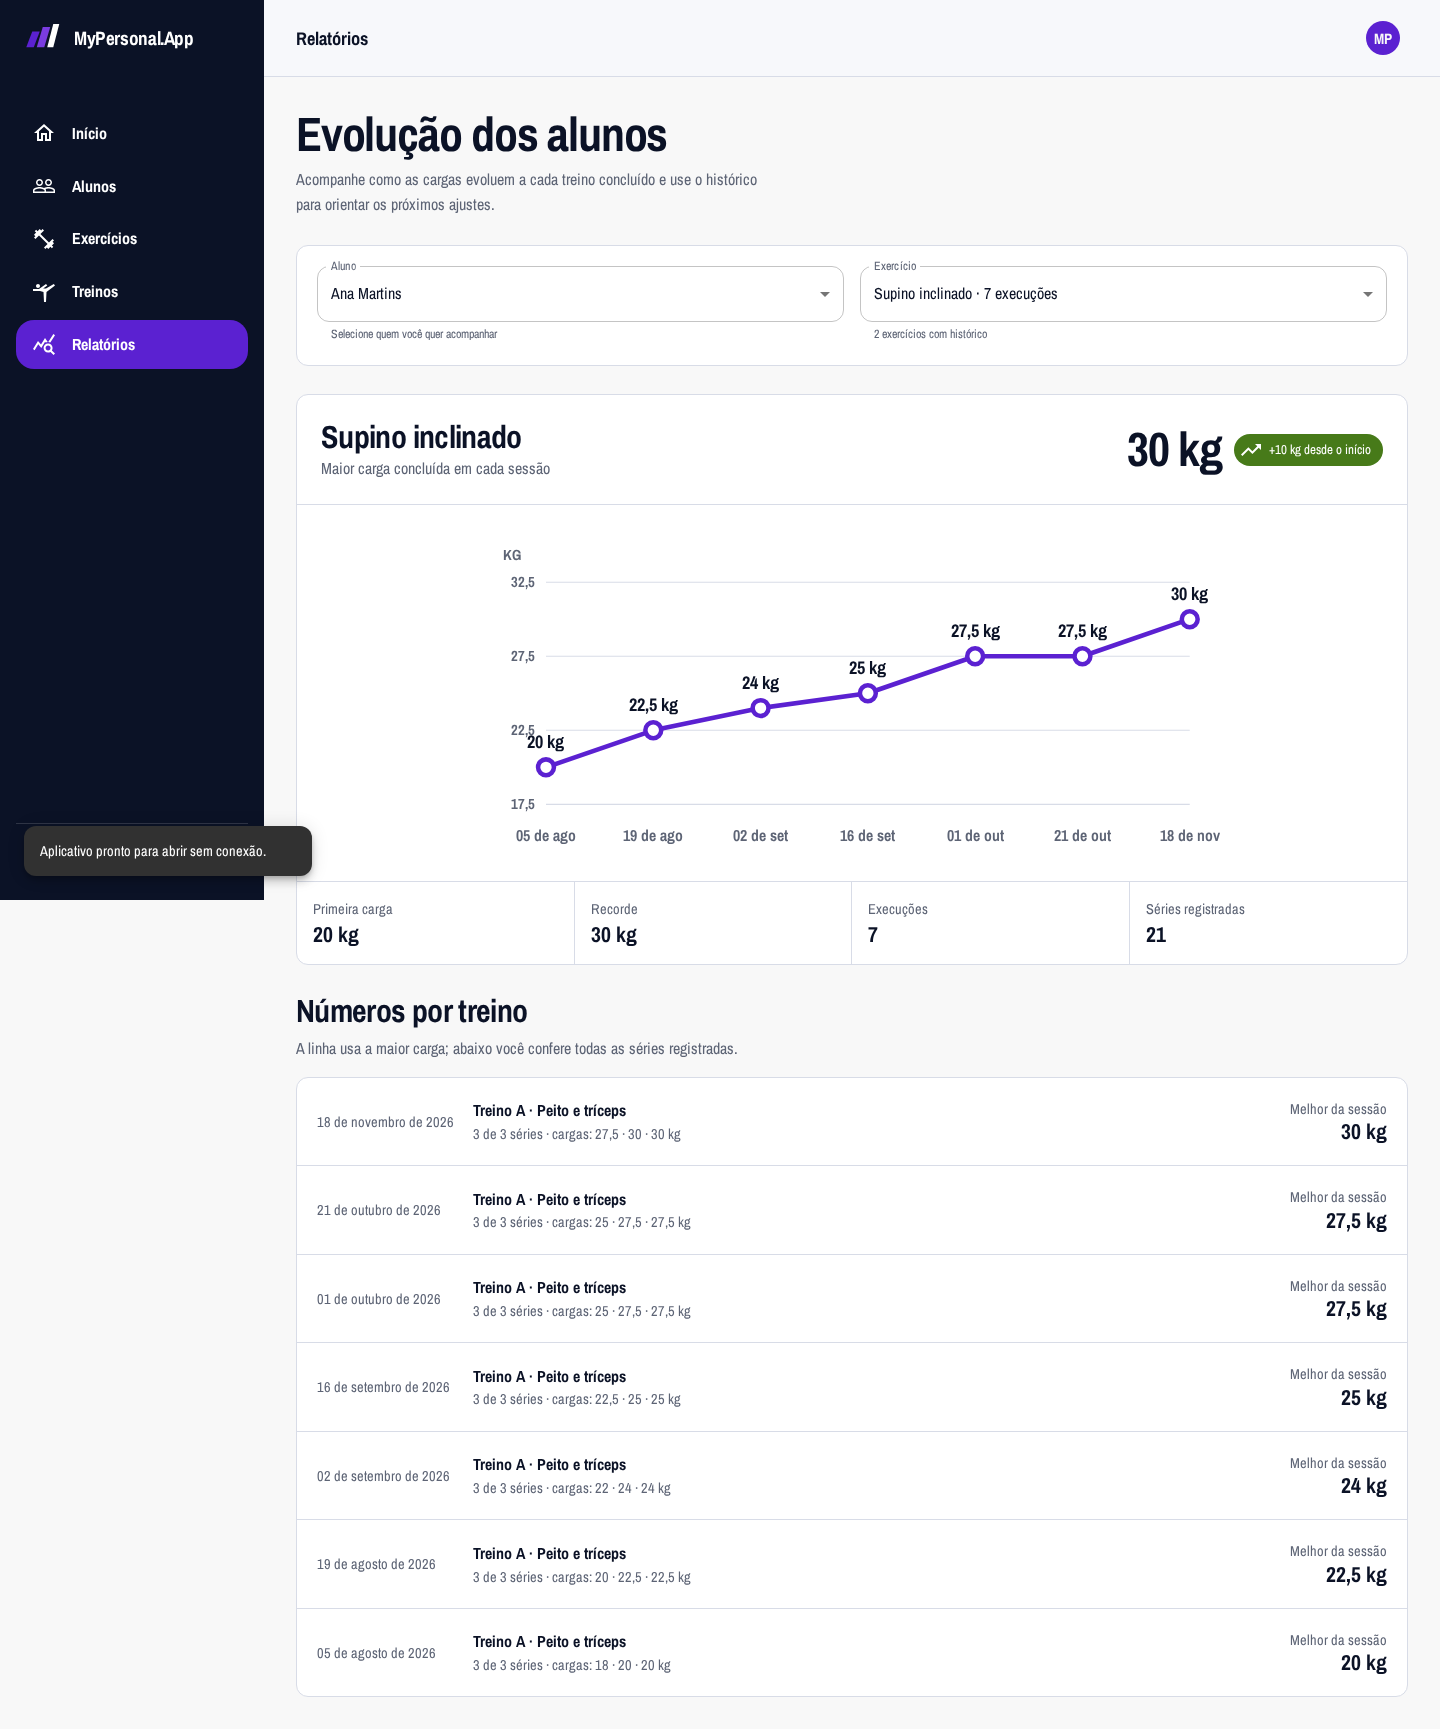
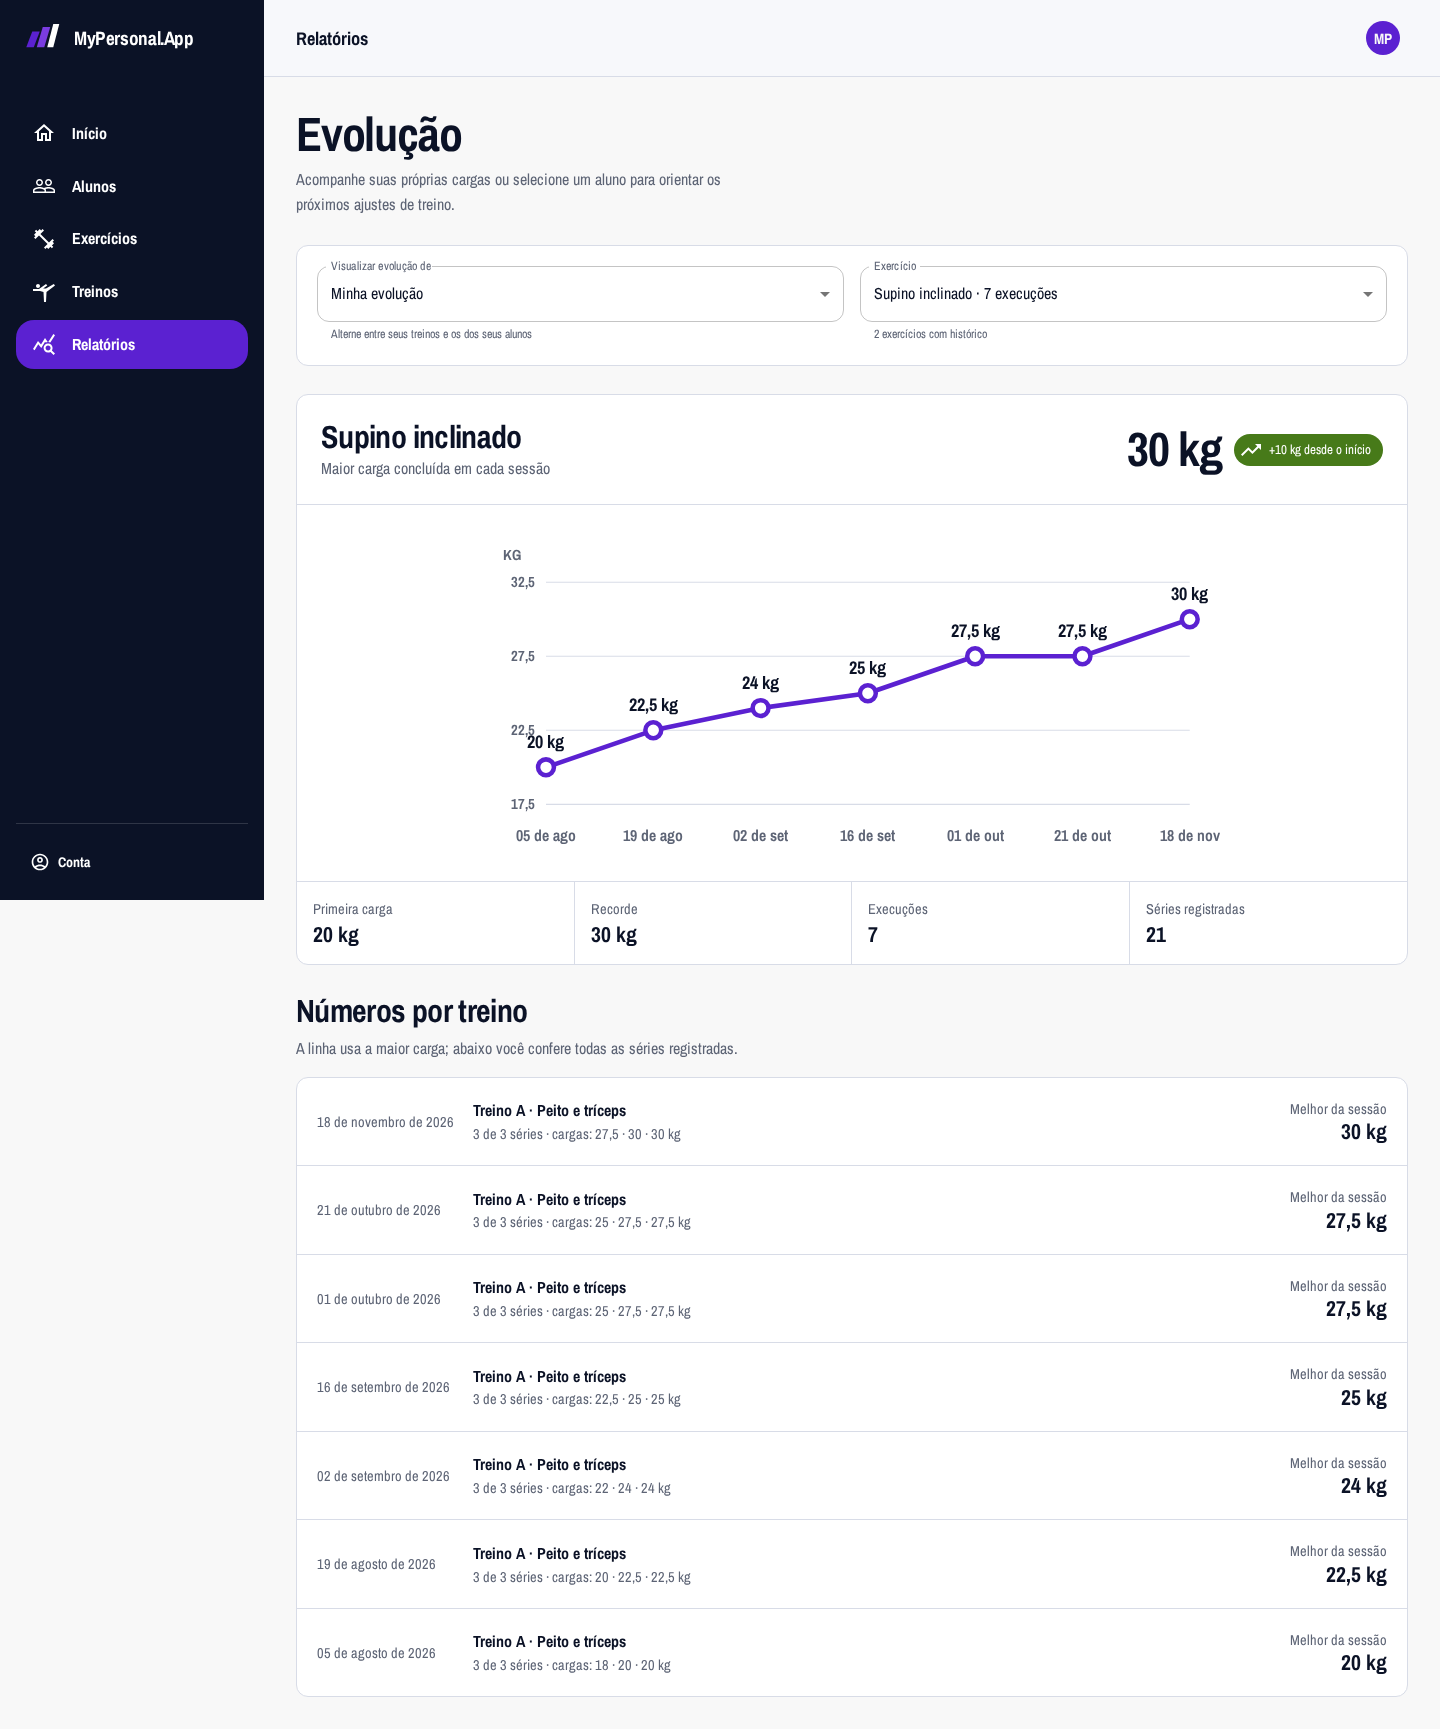
feat: refactor evolution report structure to use 'subject' instead of 'student' and enhance related components

diff --git a/src/pages/Reports/EvolutionReport.tsx b/src/pages/Reports/EvolutionReport.tsx
@@ -1,5 +1,5 @@
-import { useCallback, useEffect, useMemo, useState } from 'react';
-import { QueryStatsOutlined, Replay, SwipeOutlined, TrendingDown, TrendingFlat, TrendingUp } from '@mui/icons-material';
+import { useCallback, useEffect, useMemo, useRef, useState } from 'react';
+import { Replay, SwipeOutlined, TrendingDown, TrendingFlat, TrendingUp } from '@mui/icons-material';
 import { Alert, Box, Button, Chip, Divider, Paper, Skeleton, Stack, TextField, Typography } from '@mui/material';
 import Template from '../../components/Template';
 import { EvolutionReport as EvolutionReportData, User, UserRole } from '../../domain/types';
@@ -13,6 +13,7 @@ interface EvolutionReportProps {
 
 const loadNumber = new Intl.NumberFormat('pt-BR', { minimumFractionDigits: 0, maximumFractionDigits: 1 });
 const fullDate = new Intl.DateTimeFormat('pt-BR', { day: '2-digit', month: 'long', year: 'numeric' });
+const SELF_SUBJECT = 'self';
 
 function formatLoad(value: number | null) {
   return value === null ? '—' : `${loadNumber.format(value)} kg`;
@@ -21,30 +22,40 @@ function formatLoad(value: number | null) {
 export default function EvolutionReport({ mode = 'STUDENT' }: EvolutionReportProps) {
   const personal = mode === 'PERSONAL';
   const [students, setStudents] = useState<User[]>([]);
-  const [studentId, setStudentId] = useState('');
+  const [subjectId, setSubjectId] = useState(personal ? SELF_SUBJECT : '');
   const [report, setReport] = useState<EvolutionReportData | null>(null);
   const [loadingStudents, setLoadingStudents] = useState(personal);
-  const [loadingReport, setLoadingReport] = useState(!personal);
+  const [loadingReport, setLoadingReport] = useState(true);
   const [error, setError] = useState('');
+  const reportRequest = useRef<AbortController | null>(null);
 
   const loadReport = useCallback(async (selectedStudentId?: string, exerciseId?: string) => {
-    if (personal && !selectedStudentId) return;
+    reportRequest.current?.abort();
+    const controller = new AbortController();
+    reportRequest.current = controller;
     setLoadingReport(true);
     setError('');
     try {
+      const studentId = personal && selectedStudentId && selectedStudentId !== SELF_SUBJECT
+        ? selectedStudentId
+        : undefined;
       const { data } = await api.get<EvolutionReportData>('/reports/evolution', {
+        signal: controller.signal,
         params: {
-          ...(personal ? { student_id: selectedStudentId } : {}),
+          ...(studentId ? { student_id: studentId } : {}),
           ...(exerciseId ? { exercise_id: exerciseId } : {}),
         },
       });
-      setReport(data);
+      if (reportRequest.current === controller) setReport(data);
     } catch {
+      if (controller.signal.aborted) return;
       setError('Não foi possível carregar a evolução. Verifique a conexão e tente novamente.');
     } finally {
-      setLoadingReport(false);
+      if (reportRequest.current === controller) setLoadingReport(false);
     }
   }, [personal]);
+
+  useEffect(() => () => reportRequest.current?.abort(), []);
 
   const loadStudents = useCallback(async () => {
     setLoadingStudents(true);
@@ -66,6 +77,7 @@ export default function EvolutionReport({ mode = 'STUDENT' }: EvolutionReportPro
     }
 
     loadStudents();
+    loadReport(SELF_SUBJECT);
   }, [loadReport, loadStudents, personal]);
 
   const exercise = useMemo(
@@ -79,29 +91,29 @@ export default function EvolutionReport({ mode = 'STUDENT' }: EvolutionReportPro
       ? { label: `+${loadNumber.format(change)} kg desde o início`, color: 'success' as const, icon: <TrendingUp /> }
       : { label: `${loadNumber.format(change)} kg desde o início`, color: 'warning' as const, icon: <TrendingDown /> };
 
-  const selectStudent = (nextStudentId: string) => {
-    setStudentId(nextStudentId);
+  const selectSubject = (nextSubjectId: string) => {
+    setSubjectId(nextSubjectId);
     setReport(null);
-    if (nextStudentId) loadReport(nextStudentId);
+    loadReport(nextSubjectId);
   };
 
   const selectExercise = (exerciseId: string) => {
-    loadReport(personal ? studentId : undefined, exerciseId);
+    loadReport(personal ? subjectId : undefined, exerciseId);
   };
 
   const retry = () => {
-    if (personal && !studentId) loadStudents();
-    else loadReport(personal ? studentId : undefined, report?.selected_exercise_id || undefined);
+    if (personal) loadStudents();
+    loadReport(personal ? subjectId : undefined, report?.selected_exercise_id || undefined);
   };
 
   return (
     <Template type={mode} pageName="Relatórios">
       <Stack spacing={3.5} sx={{ maxWidth: 1120, mx: 'auto' }}>
         <Box>
-          <Typography component="h2" variant="h2">{personal ? 'Evolução dos alunos' : 'Minha evolução'}</Typography>
+          <Typography component="h2" variant="h2">{personal ? 'Evolução' : 'Minha evolução'}</Typography>
           <Typography color="text.secondary" sx={{ mt: 1, maxWidth: '68ch' }}>
             {personal
-              ? 'Acompanhe como as cargas evoluem a cada treino concluído e use o histórico para orientar os próximos ajustes.'
+              ? 'Acompanhe suas próprias cargas ou selecione um aluno para orientar os próximos ajustes de treino.'
               : 'Veja sua progressão de carga em cada exercício concluído e reconheça a consistência construída treino após treino.'}
           </Typography>
         </Box>
@@ -112,22 +124,22 @@ export default function EvolutionReport({ mode = 'STUDENT' }: EvolutionReportPro
               <TextField
                 select
                 SelectProps={{ native: true }}
-                InputLabelProps={{ sx: { color: 'text.secondary' } }}
+                InputLabelProps={{ sx: { color: `${tokens.color.muted} !important` } }}
                 FormHelperTextProps={{ sx: { color: 'text.secondary' } }}
-                label="Aluno"
-                value={studentId}
+                label="Visualizar evolução de"
+                value={subjectId}
                 disabled={loadingStudents}
-                onChange={(event) => selectStudent(event.target.value)}
-                helperText={loadingStudents ? 'Carregando alunos…' : 'Selecione quem você quer acompanhar'}
+                onChange={(event) => selectSubject(event.target.value)}
+                helperText={loadingStudents ? 'Carregando alunos…' : 'Alterne entre seus treinos e os dos seus alunos'}
               >
-                <option value="">Selecione um aluno</option>
+                <option value={SELF_SUBJECT}>Minha evolução</option>
                 {students.map((student) => <option key={student.id} value={student.id}>{student.name}</option>)}
               </TextField>
             )}
             <TextField
               select
               SelectProps={{ native: true }}
-              InputLabelProps={{ sx: { color: 'text.secondary' } }}
+              InputLabelProps={{ sx: { color: `${tokens.color.muted} !important` } }}
               FormHelperTextProps={{ sx: { color: 'text.secondary' } }}
               label="Exercício"
               value={report?.selected_exercise_id || ''}
@@ -154,17 +166,11 @@ export default function EvolutionReport({ mode = 'STUDENT' }: EvolutionReportPro
             <Skeleton variant="rounded" height={430} />
             <Skeleton variant="rounded" height={180} />
           </Stack>
-        ) : personal && !studentId ? (
-          <Paper sx={{ p: { xs: 3, sm: 5 }, border: `1px solid ${tokens.color.line}`, textAlign: 'center' }}>
-            <QueryStatsOutlined color="primary" sx={{ fontSize: 48 }} />
-            <Typography variant="h4" sx={{ mt: 1 }}>Escolha um aluno para começar</Typography>
-            <Typography color="text.secondary" sx={{ mt: 1 }}>O relatório reunirá apenas exercícios que ele já concluiu.</Typography>
-          </Paper>
         ) : report && report.exercises.length === 0 ? (
           <Paper sx={{ p: { xs: 3, sm: 5 }, border: `1px solid ${tokens.color.line}` }}>
             <Typography variant="h4">Ainda não há evolução para mostrar</Typography>
             <Typography color="text.secondary" sx={{ mt: 1, maxWidth: '60ch' }}>
-              Quando {personal ? report.student.name : 'você'} concluir séries com carga registrada, os primeiros pontos aparecerão aqui.
+              Quando {report.subject.type === 'PERSONAL' || !personal ? 'você' : report.subject.name} concluir séries com carga registrada, os primeiros pontos aparecerão aqui.
             </Typography>
           </Paper>
         ) : report && exercise ? (

diff --git a/src/pages/Reports/EvolutionReport.test.tsx b/src/pages/Reports/EvolutionReport.test.tsx
@@ -9,7 +9,7 @@ vi.mock('../../components/Template', () => ({ default: ({ children }: { children
 vi.mock('../@shared/api', () => ({ default: { get: vi.fn() } }));
 
 const report = {
-  student: { id: 'student-1', name: 'Ana' },
+  subject: { id: 'student-1', name: 'Ana', type: 'STUDENT' },
   exercises: [{ id: 'exercise-1', name: 'Supino inclinado', executions: 2, personal_best: 25 }],
   selected_exercise_id: 'exercise-1',
   summary: { initial_load: 20, current_load: 25, absolute_change: 5, percentage_change: 25, personal_best: 25, total_executions: 2, total_series: 5 },
@@ -18,6 +18,12 @@ const report = {
     { progress_id: 'p2', training_id: 't1', training_name: 'Treino A', executed_at: '2026-10-08T10:00:00Z', max_load: 25, average_load: 24.2, completed_series: 3, planned_series: 3, loads: [22.5, 25, 25] },
   ],
 };
+
+function deferred<T>() {
+  let resolve!: (value: T) => void;
+  const promise = new Promise<T>((complete) => { resolve = complete; });
+  return { promise, resolve };
+}
 
 describe('relatório de evolução', () => {
   beforeEach(() => {
@@ -29,14 +35,14 @@ describe('relatório de evolução', () => {
     render(<MemoryRouter><EvolutionReport mode="STUDENT" /></MemoryRouter>);
 
     expect(await screen.findByRole('heading', { name: 'Minha evolução' })).toBeInTheDocument();
-    await waitFor(() => expect(api.get).toHaveBeenCalledWith('/reports/evolution', { params: {} }));
+    await waitFor(() => expect(api.get).toHaveBeenCalledWith('/reports/evolution', expect.objectContaining({ params: {} })));
     expect(screen.getByRole('img', { name: /Evolução de carga em Supino inclinado/ })).toBeInTheDocument();
     expect(screen.getByText('+5 kg desde o início')).toBeInTheDocument();
     expect(screen.getAllByText('25 kg').length).toBeGreaterThan(0);
     expect(screen.getByText(/cargas: 22,5 · 25 · 25 kg/)).toBeInTheDocument();
   });
 
-  it('permite que o personal selecione um aluno antes de consultar a evolução', async () => {
+  it('abre a evolução do próprio personal e permite alternar para um aluno', async () => {
     vi.mocked(api.get).mockImplementation((url) => Promise.resolve({
       data: url === '/students/list-all'
         ? [{ id: 'student-1', name: 'Ana', email: 'ana@example.com' }]
@@ -46,10 +52,41 @@ describe('relatório de evolução', () => {
 
     render(<MemoryRouter><EvolutionReport mode="PERSONAL" /></MemoryRouter>);
 
-    expect(await screen.findByRole('heading', { name: 'Evolução dos alunos' })).toBeInTheDocument();
-    await user.selectOptions(await screen.findByRole('combobox', { name: 'Aluno' }), 'student-1');
-
-    await waitFor(() => expect(api.get).toHaveBeenCalledWith('/reports/evolution', { params: { student_id: 'student-1' } }));
+    expect(await screen.findByRole('heading', { name: 'Evolução' })).toBeInTheDocument();
+    const subjectSelect = await screen.findByRole('combobox', { name: 'Visualizar evolução de' });
+    expect(subjectSelect).toHaveValue('self');
+    await waitFor(() => expect(api.get).toHaveBeenCalledWith('/reports/evolution', expect.objectContaining({ params: {} })));
     expect(await screen.findByRole('img', { name: /Evolução de carga em Supino inclinado/ })).toBeInTheDocument();
+
+    await user.selectOptions(subjectSelect, 'student-1');
+
+    await waitFor(() => expect(api.get).toHaveBeenCalledWith('/reports/evolution', expect.objectContaining({ params: { student_id: 'student-1' } })));
+  });
+
+  it('descarta a resposta anterior quando o personal troca rapidamente de pessoa', async () => {
+    const ownRequest = deferred<{ data: typeof report }>();
+    const studentReport = {
+      ...report,
+      subject: { id: 'student-1', name: 'Ana', type: 'STUDENT' },
+      exercises: [{ id: 'exercise-2', name: 'Remada baixa', executions: 1, personal_best: 35 }],
+      selected_exercise_id: 'exercise-2',
+      points: report.points.map((point) => ({ ...point, max_load: 35 })),
+    };
+    vi.mocked(api.get).mockImplementation((url, config) => {
+      if (url === '/students/list-all') return Promise.resolve({ data: [{ id: 'student-1', name: 'Ana' }] }) as never;
+      if ((config?.params as { student_id?: string } | undefined)?.student_id === 'student-1') return Promise.resolve({ data: studentReport }) as never;
+      return ownRequest.promise as never;
+    });
+    const user = userEvent.setup();
+
+    render(<MemoryRouter><EvolutionReport mode="PERSONAL" /></MemoryRouter>);
+    const subjectSelect = await screen.findByRole('combobox', { name: 'Visualizar evolução de' });
+    await user.selectOptions(subjectSelect, 'student-1');
+
+    expect(await screen.findByRole('heading', { name: 'Remada baixa' })).toBeInTheDocument();
+    ownRequest.resolve({ data: report });
+    await Promise.resolve();
+    expect(screen.getByRole('heading', { name: 'Remada baixa' })).toBeInTheDocument();
+    expect(screen.queryByRole('heading', { name: 'Supino inclinado' })).not.toBeInTheDocument();
   });
 });

diff --git a/src/pages/Reports/EvolutionChart.tsx b/src/pages/Reports/EvolutionChart.tsx
@@ -1,5 +1,5 @@
 import { useEffect, useRef } from 'react';
-import { Box } from '@mui/material';
+import { Box, useMediaQuery, useTheme } from '@mui/material';
 import { EvolutionPoint } from '../../domain/types';
 import { tokens } from '../../theme';
 
@@ -13,9 +13,11 @@ const loadNumber = new Intl.NumberFormat('pt-BR', { maximumFractionDigits: 1 });
 
 export default function EvolutionChart({ points, exerciseName }: EvolutionChartProps) {
   const scrollerRef = useRef<HTMLDivElement>(null);
+  const theme = useTheme();
+  const compact = useMediaQuery(theme.breakpoints.down('sm'));
   const width = Math.max(560, points.length * 92);
-  const height = 300;
-  const padding = { top: 54, right: 24, bottom: 50, left: 52 };
+  const height = compact ? 220 : 300;
+  const padding = { top: compact ? 44 : 54, right: 24, bottom: compact ? 42 : 50, left: 52 };
   const chartWidth = width - padding.left - padding.right;
   const chartHeight = height - padding.top - padding.bottom;
   const loads = points.map((point) => point.max_load);

diff --git a/e2e/accessibility.spec.ts b/e2e/accessibility.spec.ts
@@ -64,7 +64,7 @@ test('relatório de evolução não tem violações axe sérias ou críticas', a
     status: 200,
     contentType: 'application/json',
     body: JSON.stringify({
-      student: { id: 'student-1', name: 'Ana Aluna' },
+      subject: { id: 'student-1', name: 'Ana Aluna', type: 'STUDENT' },
       exercises: [{ id: 'exercise-1', name: 'Supino inclinado', executions: 2, personal_best: 25 }],
       selected_exercise_id: 'exercise-1',
       summary: { initial_load: 20, current_load: 25, absolute_change: 5, percentage_change: 25, personal_best: 25, total_executions: 2, total_series: 6 },

diff --git a/src/domain/types.ts b/src/domain/types.ts
@@ -103,7 +103,7 @@ export interface EvolutionPoint {
 }
 
 export interface EvolutionReport {
-  student: { id: string; name: string };
+  subject: { id: string; name: string; type: UserRole };
   exercises: EvolutionExercise[];
   selected_exercise_id: string | null;
   summary: {
